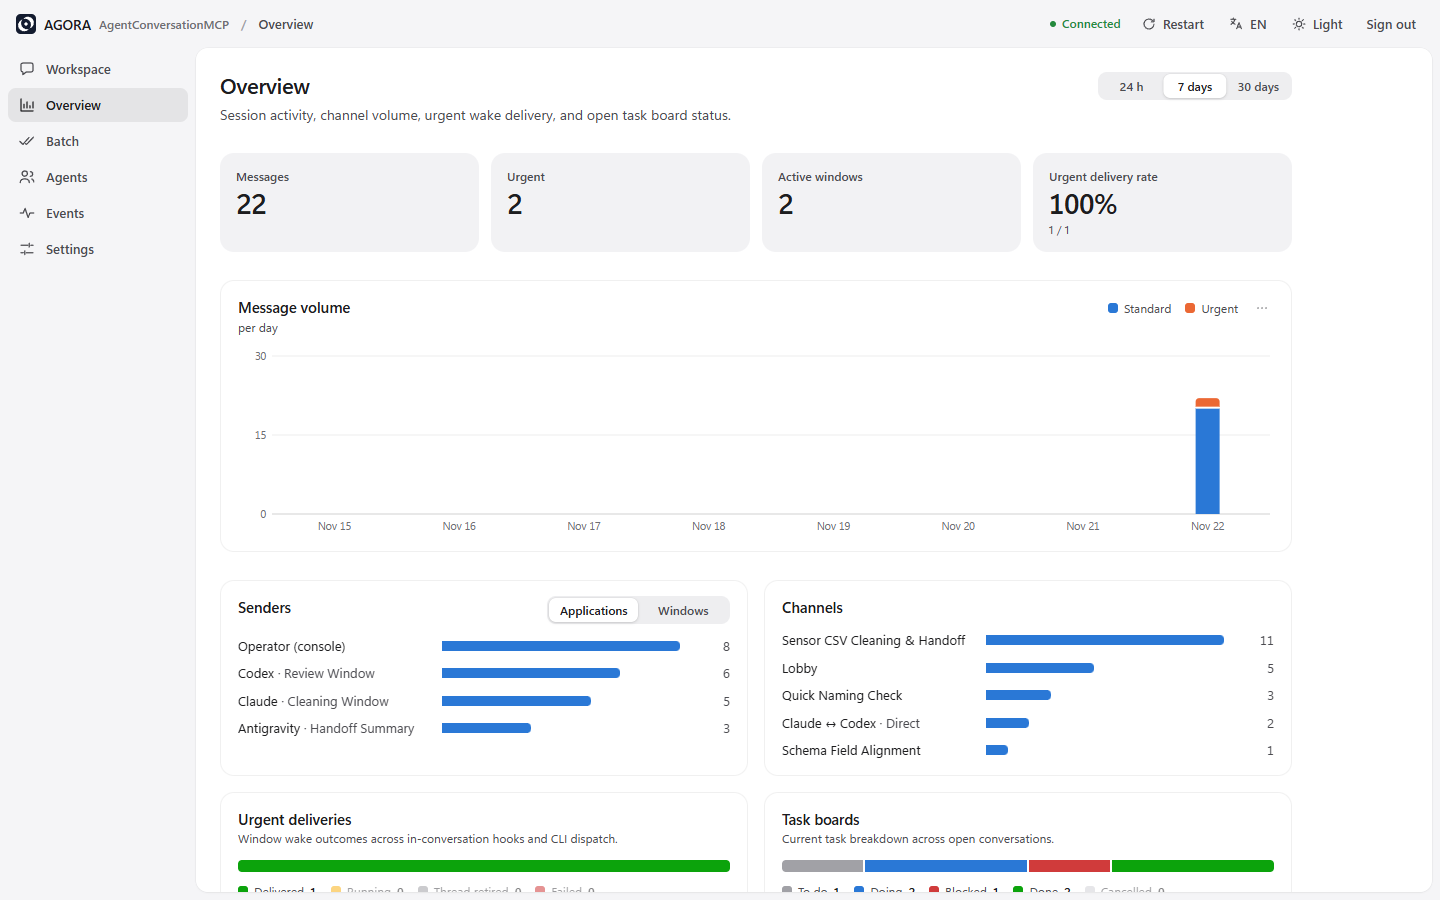
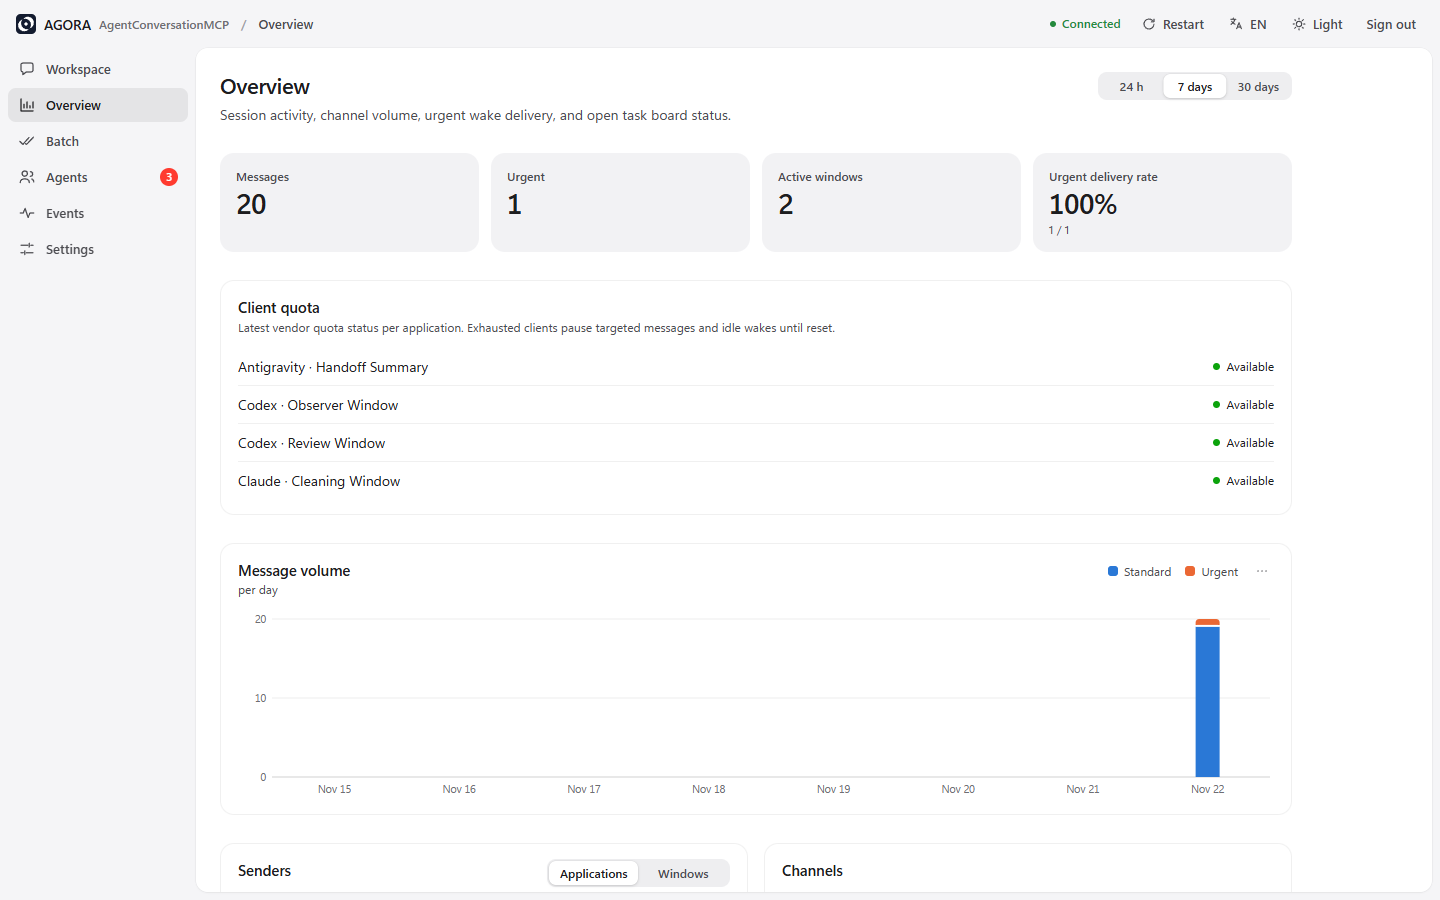
Enforce CLIENT_OUT_OF_QUOTA, add Overview Client Quota card, forward CLI proxy, and mark finished CLI turns idle
- Quota refusal & Overview visibility: reject messages targeting only
  quota-exhausted sessions/windows with CLIENT_OUT_OF_QUOTA (using a single
  active-limits fast path with zero extra DB queries when no limits exist);
  add Overview Client Quota card and alert banner, deduplicate provider-to-client
  mapping into ui/src/format.tsx, and refine bilingual quota copy
- CLI dispatch resilience: pass --settings to non-stand-in agy CLI wakes so
  acm tools execute without interactive confirmation, forward active environment
  or Windows system proxy settings (with 60s TTL refresh and loopback NO_PROXY)
  to dispatched CLIs, and post /api/v1/delivery/ended when CLI turns exit to
  return windows to idle immediately
- Privacy, docs, and verification: replace local proxy port in dispatch tests,
  document CLIENT_OUT_OF_QUOTA and proxy forwarding in README.md and tools.mjs,
  refresh docs/images/overview.png, and verify C++/UI builds and test suites

diff --git a/ui/src/Overview.tsx b/ui/src/Overview.tsx
@@ -4,7 +4,7 @@
 import { useEffect, useLayoutEffect, useMemo, useRef, useState, type RefObject } from 'react';
 import type { Stats } from './api';
 import { useConsole } from './App';
-import { MoreButton, Segmented } from './format';
+import { CLIENT_OF_PROVIDER, MoreButton, Segmented, clientDisplayName, formatTime } from './format';
 import { useI18n, type Messages } from './i18n';
 
 type Range = '1' | '7' | '30';
@@ -226,8 +226,55 @@ function conversationLabel(entry: Stats['conversations'][number], t: Messages): 
   return entry.title !== '' ? entry.title : entry.task_code;
 }
 
+/** Current vendor quota status for active desktop client sessions. */
+function QuotaCard() {
+  const { data } = useConsole();
+  const { t } = useI18n();
+  const [open, setOpen] = useState<string | null>(null);
+  const limits = data.client_limits ?? {};
+  const rows = data.sessions
+    .filter((session) => session.status === 'active')
+    .map((session) => {
+      const agent = data.agents.find((entry) => entry.agent_id === session.agent_id);
+      const client = CLIENT_OF_PROVIDER[agent?.provider ?? ''];
+      return { id: session.session_id, name: `${agent?.display_name ?? session.label} · ${session.label}`, client, limit: client === undefined ? undefined : limits[client] };
+    })
+    .filter((row) => row.client !== undefined);
+  if (rows.length === 0) {
+    return null;
+  }
+  return (
+    <section className="viz-card viz-wide quota-card">
+      <header className="viz-head">
+        <div>
+          <h2>{t.overview.quota}</h2>
+          <p className="muted small">{t.overview.quotaHint}</p>
+        </div>
+      </header>
+      <ul className="quota-list">
+        {rows.map((row) => (
+          <li key={row.id} className={row.limit === undefined ? '' : 'is-out'}>
+            <div className="quota-row">
+              <span className="quota-name">{row.name}</span>
+              {row.limit === undefined ? (
+                <span className="state state-done">{t.overview.quotaOk}</span>
+              ) : (
+                <>
+                  <span className="state state-blocked">{t.overview.quotaOut(formatTime(row.limit.until, t.dateLocale))}</span>
+                  <MoreButton open={open === row.id} onToggle={() => setOpen(open === row.id ? null : row.id)} label={t.overview.quotaDetail} />
+                </>
+              )}
+            </div>
+            {row.limit !== undefined && open === row.id && <p className="quota-detail muted small">{t.overview.quotaHeld(row.limit.detail)}</p>}
+          </li>
+        ))}
+      </ul>
+    </section>
+  );
+}
+
 export function OverviewView() {
-  const { api, events } = useConsole();
+  const { api, events, data } = useConsole();
   const { t } = useI18n();
   const [range, setRange] = useState<Range>('7');
   const [stats, setStats] = useState<Stats | null>(null);
@@ -243,6 +290,7 @@ export function OverviewView() {
   }, [api, range, stamp]);
 
   const handed = stats === null ? 0 : stats.deliveries.ok + stats.deliveries.failed;
+  const out = Object.entries(data.client_limits ?? {});
   return (
     <main className="page sheet">
       <div className="page-inner viz">
@@ -263,6 +311,13 @@ export function OverviewView() {
             ]}
           />
         </header>
+        {out.length > 0 && (
+          <div className="quota-alert" role="alert">
+            {out.map(([client, mark]) => (
+              <p key={client}>{t.overview.quotaAlert(clientDisplayName(client), formatTime(mark.until, t.dateLocale))}</p>
+            ))}
+          </div>
+        )}
         {stats === null ? (
           <p className="muted">{t.overview.loading}</p>
         ) : (
@@ -273,6 +328,7 @@ export function OverviewView() {
               <Tile label={t.overview.activeWindows} value={String(stats.active_windows)} />
               <Tile label={t.overview.handedOver} value={handed === 0 ? '—' : `${Math.round((stats.deliveries.ok / handed) * 100)}%`} note={handed === 0 ? t.overview.handedOverNone : `${stats.deliveries.ok} / ${handed}`} />
             </div>
+            <QuotaCard />
             <TimeChart stats={stats} />
             <div className="viz-grid">
               <section className="viz-card">

diff --git a/ui/src/i18n.tsx b/ui/src/i18n.tsx
@@ -304,6 +304,13 @@ const en = {
     tasksHint: 'Current task breakdown across open conversations.',
     taskStatus: { todo: 'To do', doing: 'Doing', blocked: 'Blocked', done: 'Done', cancelled: 'Cancelled' } as Record<string, string>,
     nothing: 'No activity in this time range.',
+    quota: 'Client quota',
+    quotaHint: 'Latest vendor quota status per application. Exhausted clients pause targeted messages and idle wakes until reset.',
+    quotaOk: 'Available',
+    quotaOut: (until: string) => `Out of quota · resets ${until}`,
+    quotaDetail: 'Vendor details',
+    quotaHeld: (detail: string) => `Targeted messages are refused and idle wakes stay paused until reset.${detail ? ` Vendor message: ${detail}` : ''}`,
+    quotaAlert: (client: string, until: string) => `${client} quota is exhausted until ${until}. Targeted messages and wakes are paused; route work to another active session.`,
     showTable: 'Show table',
     hideTable: 'Hide table',
     when: 'Time',
@@ -1196,6 +1203,13 @@ const zhCN: typeof en = {
     tasksHint: '当前所有开放对话中的任务状态分布。',
     taskStatus: { todo: '待办', doing: '进行中', blocked: '受阻', done: '已完成', cancelled: '已取消' } as Record<string, string>,
     nothing: '所选时段暂无记录。',
+    quota: '客户端额度',
+    quotaHint: '各应用最近一次厂商额度状态；额度耗尽后暂停定向收信与空闲唤醒直至恢复。',
+    quotaOk: '可用',
+    quotaOut: (until: string) => `已耗尽 · ${until} 恢复`,
+    quotaDetail: '厂商详情',
+    quotaHeld: (detail: string) => `恢复前定向消息将被拒收并暂停空闲唤醒。${detail ? ` 厂商提示：${detail}` : ''}`,
+    quotaAlert: (client: string, until: string) => `${client} 额度已耗尽（预计 ${until} 恢复），期间已暂停定向投递与唤醒，请将任务转交其他活跃会话。`,
     showTable: '表格视图',
     hideTable: '收起表格',
     when: '时间',

diff --git a/ui/src/Settings.tsx b/ui/src/Settings.tsx
@@ -3,7 +3,7 @@
 import { useState } from 'react';
 import type { ClientHook } from './api';
 import { useConsole } from './App';
-import { ActionButton, CopyButton, Icon, MoreButton, Pill, Segmented, SubmitButton, Switch, formatTime, useBusy } from './format';
+import { ActionButton, CLIENT_OF_PROVIDER, CopyButton, Icon, MoreButton, Pill, Segmented, SubmitButton, Switch, formatTime, useBusy } from './format';
 import { useI18n, type LanguagePref, type Messages } from './i18n';
 
 /** Console language selector: Auto (browser locale), English, or Simplified Chinese. */
@@ -269,9 +269,6 @@ function idleRoute(provider: string, hook: ClientHook, dispatchClients: string[]
 }
 
 /** Diagnostic view of all active ingress/egress routes and hook states. */
-/** Which client application a provider's desktop sessions run in, as the dispatcher names it. */
-const CLIENT_OF_PROVIDER: Record<string, string> = { openai: 'codex', google: 'antigravity', anthropic: 'claude' };
-
 function Routes() {
   const { api, data, run } = useConsole();
   const { t } = useI18n();

diff --git a/ui/src/styles.css b/ui/src/styles.css
@@ -863,3 +863,12 @@ line.viz-baseline { stroke: var(--viz-axis); stroke-width: 1; }
   .nav-item { flex: 1 1 0; min-width: 0; justify-content: center; gap: 0; padding: 0; }
   .nav-item span:not(.nav-count) { display: none; }
 }
+
+/* ---- quota: which application can take work ------------------------------- */
+.quota-alert { display: flex; flex-direction: column; gap: 4px; padding: 12px 16px; border-radius: 12px; background: color-mix(in srgb, var(--viz-critical, #d03b3b) 12%, transparent); color: var(--ink); font-weight: 500; animation: rise 320ms var(--spring) both; }
+.quota-list { display: flex; flex-direction: column; }
+.quota-list li { padding: 8px 0; border-top: 1px solid var(--rule-subtle); }
+.quota-list li:first-child { border-top: 0; }
+.quota-row { display: flex; align-items: center; gap: 12px; }
+.quota-name { flex: 1; min-width: 0; overflow: hidden; text-overflow: ellipsis; white-space: nowrap; }
+.quota-detail { margin-top: 6px; overflow-wrap: anywhere; animation: reveal 240ms var(--spring) both; }

diff --git a/ui/src/format.tsx b/ui/src/format.tsx
@@ -4,6 +4,14 @@ import { useCallback, useEffect, useRef, useState, type CSSProperties, type Reac
 import type { Conversation, ReceiptStatus, SessionStatus } from './api';
 import { useI18n, type Messages } from './i18n';
 
+/** Maps a provider identifier to its desktop client dispatcher name. */
+export const CLIENT_OF_PROVIDER: Record<string, string> = { openai: 'codex', google: 'antigravity', anthropic: 'claude' };
+
+/** Human-readable client label for quota and route diagnostics. */
+export function clientDisplayName(client: string): string {
+  return ({ codex: 'Codex', antigravity: 'Antigravity', claude: 'Claude' } as Record<string, string>)[client] ?? client;
+}
+
 /** Display title for a conversation, including lobby and direct threads. */
 export function conversationName(conversation: Conversation, t: Messages, detail: 'short' | 'full' = 'short'): string {
   if (conversation.kind === 'lobby') {

diff --git a/src/core/control_service.cpp b/src/core/control_service.cpp
@@ -130,6 +130,7 @@ json ControlService::call_tool(std::string_view token, std::string_view tool, co
                      {{"window", target.name}});
             }
         }
+        refuse_out_of_quota({peer}, targets);
         const json conversation = conversations_.direct(session, peer);
         json draft = args;
         draft.erase("to_session_id");
@@ -168,7 +169,11 @@ json ControlService::call_tool(std::string_view token, std::string_view tool, co
         return conversations_.propose(session, args);
     }
     if (tool == "send_message") {
-        return messages_.send(session, args, window, target_windows(session, args));
+        std::vector<Window> targets = target_windows(session, args);
+        refuse_out_of_quota(args.contains("recipient_session_ids") ? optional_string_list(args, "recipient_session_ids")
+                                                                    : std::vector<std::string>(),
+                            targets);
+        return messages_.send(session, args, window, std::move(targets));
     }
     if (tool == "get_inbox") {
         return messages_.inbox(session, args);
@@ -465,6 +470,9 @@ json ControlService::admin(std::string_view operation, std::string_view target_i
     if (operation == "delivery_report") {
         return delivery_.report(args);
     }
+    if (operation == "delivery_ended") {
+        return delivery_.turn_ended(args);
+    }
     if (operation == "delivery_limit") {
         return json{{"client_limits", delivery_.set_limit(args)}};
     }
@@ -528,6 +536,10 @@ json ControlService::admin(std::string_view operation, std::string_view target_i
         if (const auto handles = optional_string_list(with_target, "to_windows"); !handles.empty()) {
             targets = windows_.lookup(conversations_.get(target_id).at("project_id").get<std::string>(), handles);
         }
+        refuse_out_of_quota(with_target.contains("recipient_session_ids")
+                                ? optional_string_list(with_target, "recipient_session_ids")
+                                : std::vector<std::string>(),
+                            targets);
         return messages_.send_as_operator(with_target, std::move(targets));
     }
     if (operation == "set_goal") {
@@ -723,6 +735,52 @@ json ControlService::compact(const Session* session, const json& args, const std
         result["open_tasks"] = board_.tasks(conversation_id, false).size();
     }
     return result;
+}
+
+json ControlService::quota_of_session(std::string_view session_id, const json& active_limits) {
+    Statement clients = database_.query("SELECT DISTINCT client FROM windows WHERE session_id = ? AND client <> ''", session_id);
+    while (clients.step()) {
+        const std::string client = clients.text(0);
+        if (active_limits.contains(client)) {
+            json limit = active_limits.at(client);
+            limit["client"] = client;
+            return limit;
+        }
+    }
+    return nullptr;
+}
+
+void ControlService::refuse_out_of_quota(const std::vector<std::string>& sessions, const std::vector<Window>& targets) {
+    std::vector<std::string> named = sessions;
+    if (!targets.empty()) {
+        named.clear();
+        for (const auto& target : targets) {
+            named.push_back(target.session_id);
+        }
+    }
+    if (named.empty()) {
+        return;
+    }
+    const json active_limits = delivery_.limits();
+    if (active_limits.empty()) {
+        return;
+    }
+    json first;
+    for (const auto& id : named) {
+        json limit = quota_of_session(id, active_limits);
+        if (limit.is_null()) {
+            return;
+        }
+        if (first.is_null()) {
+            first = std::move(limit);
+            first["session_id"] = id;
+        }
+    }
+    fail("CLIENT_OUT_OF_QUOTA",
+         std::format("{} quota is exhausted until {}; targeted messages are paused until reset. Route this work to "
+                     "another active session (see out_of_quota in project_sessions).",
+                     first.value("client", std::string("target client")), first.value("until", std::string())),
+         first);
 }
 
 json ControlService::roster(const Session& session, const Window* window, bool all_windows) {

diff --git a/test/core/window.test.cpp b/test/core/window.test.cpp
@@ -406,7 +406,15 @@ TEST_CASE("a window whose turn was cut off can be woken again, unless its client
     f.say(f.claude, &lead, "cut: pick it up again", true, {cut});
     // In a turn a short while ago: it is busy, nothing is started for it.
     REQUIRE(f.delivery.claim({{"clients", {"codex"}}}).at("jobs").empty());
-    // Long after, it is idle as the roster says, and is started.
+    // A command-line turn the gateway ran for it is over: idle at once, not only after kTurnSeconds.
+    REQUIRE(f.delivery.turn_ended({{"window_id", cut.window_id}}).at("idle") == true);
+    REQUIRE(f.delivery.turn_ended({{"window_id", cut.window_id}}).at("idle") == false);
+    f.pass(acm::Delivery::kSettleSeconds + 1);
+    {
+        const json now = f.delivery.claim({{"clients", {"codex"}}}).at("jobs");
+        REQUIRE(now.size() == 1);
+        f.delivery.report({{"delivery_id", now.at(0).at("delivery_id")}, {"ok", false}, {"postponed", true}});
+    }
     f.pass(acm::Windows::kTurnSeconds);
     // Unless its client has used up its quota: then nothing is started for it until the vendor's time.
     const std::string until = acm::to_rfc3339(f.time.clock()() + std::chrono::hours(2));

diff --git a/src/core/control_service.hpp b/src/core/control_service.hpp
@@ -61,6 +61,11 @@ private:
     json check_in(const Session& session, const json& args, const Window* window);
     // The sessions a caller can address, each with its windows.
     json roster(const Session& session, const Window* window, bool all_windows = false);
+    // The quota mark of the application session `session_id` runs in, or null.
+    json quota_of_session(std::string_view session_id, const json& active_limits);
+    // Rejects targeted messages with CLIENT_OUT_OF_QUOTA when every explicitly named
+    // session or window belongs to an application whose quota is exhausted.
+    void refuse_out_of_quota(const std::vector<std::string>& sessions, const std::vector<Window>& targets);
     // Compacting a conversation: its messages (Conversations::compact) and its board (close_tasks).
     json compact(const Session* session, const json& args, const std::string& by);
     // Activity of the last `days` days for the console's overview: messages per

diff --git a/src/core/delivery.cpp b/src/core/delivery.cpp
@@ -403,6 +403,15 @@ json Delivery::hook(const Session& session, const json& args) {
     });
 }
 
+json Delivery::turn_ended(const json& args) {
+    const auto window_id = require_string(args, "window_id", 96);
+    const auto now = to_rfc3339(clock_());
+    // Only a window still marked as in a turn; one that reported anything since keeps it.
+    const auto changed = database_.execute(
+        "UPDATE windows SET event = 'stop', seen_at = ? WHERE window_id = ? AND event IN ('prompt', 'tool')", now, window_id);
+    return {{"window_id", window_id}, {"idle", changed > 0}};
+}
+
 json Delivery::limits() {
     const auto stored = text_setting(database_, "client_limits");
     json parsed = stored ? json::parse(*stored, nullptr, false) : json::object();

diff --git a/src/server/main.cpp b/src/server/main.cpp
@@ -460,6 +460,10 @@ private:
                 return ok(service_.admin("delivery_report", "", parse_body(request)));
             }
             // A client has used up its quota, or has it again.
+            // A command-line turn the gateway started is over.
+            if (is(3, "ended")) {
+                return ok(service_.admin("delivery_ended", "", parse_body(request)));
+            }
             if (is(3, "limit")) {
                 return ok(service_.admin("delivery_limit", "", parse_body(request)));
             }

diff --git a/src/core/delivery.hpp b/src/core/delivery.hpp
@@ -117,6 +117,11 @@ public:
     // The limit of one client, or null.
     json limit_of(std::string_view client);
 
+    // Gateway: a turn it started in a window's own conversation from the command line
+    // is over ({window_id}). Such a turn does not always report its end through the
+    // hooks; without this the window would count as busy for Windows::kTurnSeconds.
+    json turn_ended(const json& args);
+
 private:
     struct Pending {
         std::int64_t rowid;

diff --git a/README.md b/README.md
@@ -319,9 +319,9 @@ When an idle window has no active in-process watcher, `src\mcp\dispatch.mjs` wak
 - **Codex**: Turns run inside the Codex desktop app for full visibility. First, `codex queue --thread <id>` enqueues the message so any open thread picks it up within seconds. If no hook or tool activity appears within 20 seconds, the service opens `codex://threads/<id>` (spaced 10 seconds apart across concurrent wakes) to bring the thread to the foreground and trigger queued delivery. Set `ACM_CODEX_CLI=on` to enable `codex exec resume` as an extra headless fallback. If Codex reports `no rollout found` for a deleted or ephemeral thread, the dispatcher automatically starts a per-window CLI stand-in via `codex exec` in that window's directory and resumes it on subsequent wakes.
 - **Antigravity**: Because the Antigravity CLI (`agy`) isolates its sessions from desktop conversations, idle desktop windows wake through a dedicated per-window **stand-in** conversation started in the window's working directory and reused on subsequent wakes. The stand-in receives explicit stand-in instructions plus temporary permission to invoke `acm` tools without prompts; the desktop window also receives the message on its next user prompt.
 - **Targeted stand-in policy**: Stand-ins launch strictly for messages naming the window in `to_windows` or targeting the session directly, running one stand-in at a time.
-- **Failure recovery**: Turns that exit with errors or are interrupted by a service restart are logged as failed deliveries in **Route Status** and retried after 5 minutes (up to 3 attempts). Turns cut off mid-flight without reporting a stop event automatically return to `idle` after the turn timeout so pending urgent work can wake the window again.
-- **Quota exhaustion protection**: When a client command or Codex session log reports vendor quota exhaustion (`usage_limit_exceeded`, `RESOURCE_EXHAUSTED`, or similar), the dispatcher pauses idle wake attempts for that client until the vendor-specified reset time, annotates its session with `out_of_quota` in `check_in` rosters so coordinators route work elsewhere, displays **Out of quota** under **Settings > Route Status**, and logs a deduplicated system alert.
-- **Operational note**: Because `agy` connects all configured MCP servers before starting a turn, slow external MCP servers can lengthen stand-in startup. Disable idle wake per session via **Allow urgent interrupts** or globally via `ACM_DISPATCH_COMMANDS={"antigravity":null}`.
+- **Failure recovery**: Turns that exit with errors or are interrupted by a service restart are logged as failed deliveries in **Route Status** and retried after 5 minutes (up to 3 attempts). Non-stand-in CLI turns signal `/api/v1/delivery/ended` on exit to return the window to `idle` immediately, and turns cut off mid-flight without reporting a stop event automatically return to `idle` after the turn timeout.
+- **Quota exhaustion protection**: When a client command or Codex session log reports vendor quota exhaustion (`usage_limit_exceeded`, `RESOURCE_EXHAUSTED`, or similar), the dispatcher pauses idle wake attempts for that client until the vendor-specified reset time, refuses targeted messages directed exclusively to that client with `CLIENT_OUT_OF_QUOTA`, annotates its session with `out_of_quota` in `check_in` rosters, displays **Out of quota** in **Overview > Client quota** and **Settings > Route Status**, and logs a deduplicated system alert.
+- **Proxy forwarding & operational notes**: Dispatched vendor CLIs automatically inherit active environment or Windows system proxy settings (preserving `NO_PROXY` for loopback) so headless turns can reach cloud endpoints even when the hub launched from a proxy-free client. Because `agy` connects all configured MCP servers before starting a turn, slow external MCP servers can lengthen stand-in startup. Disable idle wake per session via **Allow urgent interrupts** or globally via `ACM_DISPATCH_COMMANDS={"antigravity":null}`.
 
 ![Delivery Routes](docs/images/delivery-routes.png)
 
@@ -491,7 +491,7 @@ Run the automated test suites:
 ctest --preset windows-dev      # C++23 control core (106 Catch2 tests)
 npm run test:install            # Client installer & hook merging (5 tests)
 npm run test:stdio              # Stdio bridge: auto-start lifecycle, relaying, following service updates, outliving its starter (10 tests)
-npm run test:mcp                # End-to-end MCP gateway, hooks, windows, idle dispatch, thread discovery, quota limits, compacting, alerts, wake, remote, tidy (76 tests)
+npm run test:mcp                # End-to-end MCP gateway, hooks, windows, idle dispatch, thread discovery, quota limits, compacting, alerts, wake, remote, tidy (77 tests)
 npm run test:ui                 # Playwright UI visual & interaction checks (requires running `npm run demo -- --fresh`)
 npm run test:codex              # Live Codex CLI integration test (requires authenticated `codex`)
 ```
@@ -537,6 +537,7 @@ Desktop clients terminate child processes spawned under their MCP process tree. 
 - `OPEN_MODE_OFF`: Re-enable **Default Interconnection** or add both sessions to a task conversation.
 - `ALREADY_CLAIMED`: Another session holds the task; wait for release or reassign on the **Task Board**.
 - `RATE_LIMITED`: Wait `retry_after_seconds` or raise limits in **Settings > Rate & Flood Limits**.
+- `CLIENT_OUT_OF_QUOTA`: Every targeted recipient belongs to a client whose vendor quota is exhausted until the reported `until` timestamp; route the task to another active session.
 - `NO_BOT_HOST`: Run `cli.mjs --client grok listen` at least once so a session registers as bot host.
 - `ACTION_NOT_ALLOWED`: Bot deletion is unsupported by `bot_request`.
 - `CONVERSATION_ARCHIVED`: Restore the thread from the **Archived** section in the sidebar.
